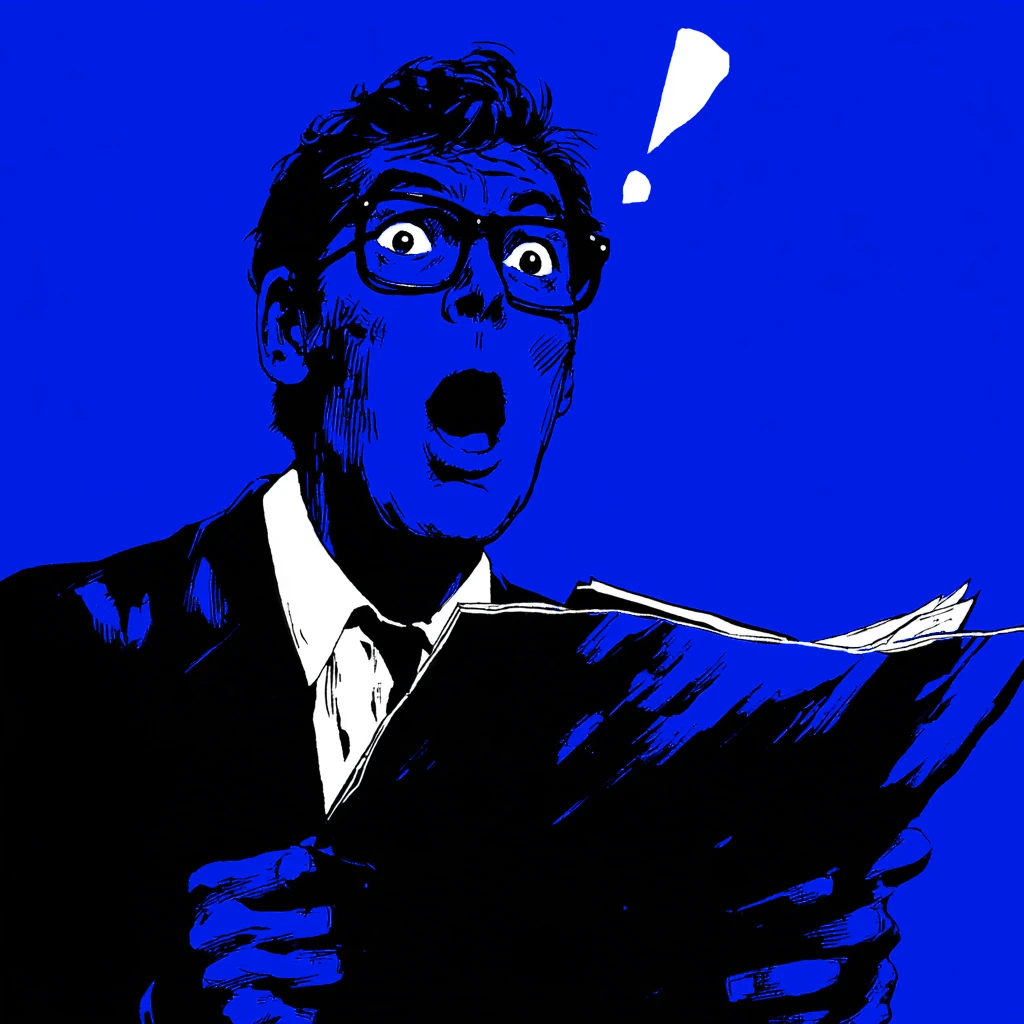
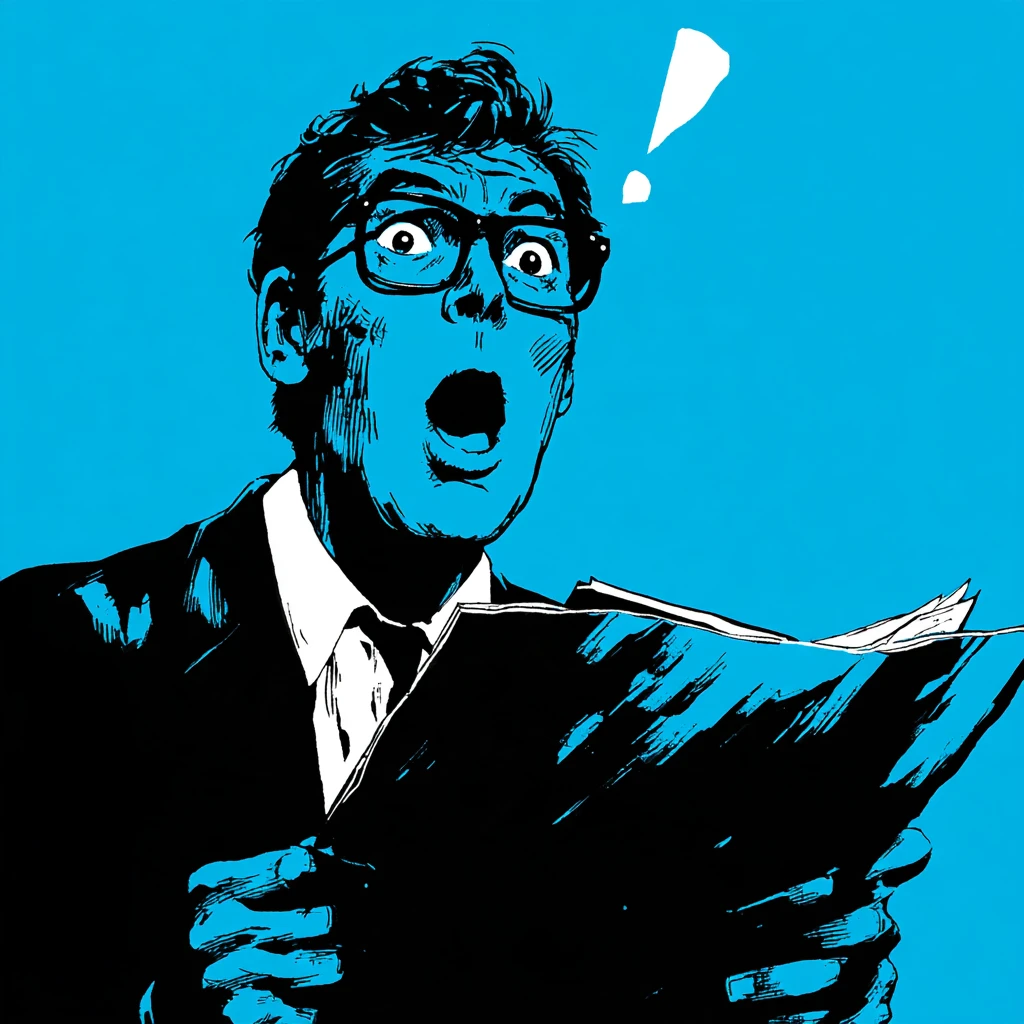
keep the cyan the illustrations came back with; say what a person adds
cyan it is -- it reads lighter against the dotted ground than #1f3cff did, and
the blue versions are kept so the swap is one command either way.

face: the white band is one rectangle again. giving each character its own
background made its height follow the character, so the top edge came out as a
staircase. one background, baseline alignment, letters still grow left to right.

about: the honest answer to "you could do that with AI". we use it, and the
saving is already in the price. what does not come out of a model is what to
cut, how much air to leave, and what any of it means for this particular
company.

diff --git a/style.css b/style.css
@@ -316,23 +316,23 @@ section.dark .sec-sub{ color:var(--dark-sub) }
   font-family:var(--jp); font-weight:900; color:#fff; margin:0 0 22px;
   font-size:clamp(29px,4vw,58px); line-height:1.22; letter-spacing:-.05em;
 }
-/* 答えの帯。左から右へ1字ずつ大きくなり、白い縁も字に連れて厚くなる。
-   ⭐ 縁の厚みは padding を em で取っているので、字が大きくなれば勝手に広がる */
+/* 答えの帯。左から右へ1字ずつ大きくなる。
+   🔴 白地は【帯ぜんぶで1枚】にする。字ごとに背景を持たせると、
+      字の高さがそのまま縁の高さになって、上端がギザギザになる */
 .face .a{
   --fa:clamp(11px,1.1vw,14px);
-  margin:0; padding:0; background:none; align-self:flex-start;
-  display:flex; flex-wrap:wrap; align-items:flex-end;
+  margin:0; align-self:flex-start;
+  background:#fff; color:var(--accent); padding:.6em .8em;
+  display:flex; flex-wrap:wrap; align-items:baseline;
   font-family:var(--jp); font-weight:800; letter-spacing:-.02em;
+  line-height:1.5;
 }
 .face .a span{
-  background:#fff; color:var(--accent);
-  font-size:calc(var(--fa) * (1 + var(--i,0) * 1.15));
-  padding:.44em .03em .4em; line-height:1.1;
+  background:none;
+  font-size:calc(var(--fa) * (1 + var(--i,0) * 0.8));
 }
-.face .a span:first-child{ padding-left:.5em }
-.face .a span:last-child{ padding-right:.5em }
 /* 字に分ける前（JSが動かないとき）も、白地に青で読める形のまま */
-.face .a:not(.split){ display:inline-block; background:#fff; color:var(--accent);
+.face .a:not(.split){ display:inline-block;
   font-size:clamp(13px,1.3vw,17px); line-height:1.75; padding:.5em .85em }
 .face figure{ margin:0; position:relative; min-height:clamp(280px,34vw,440px) }
 .face img{ position:absolute; inset:0; width:100%; height:100%; object-fit:cover; object-position:center 30% }

diff --git a/about.html b/about.html
@@ -145,6 +145,25 @@
     </div>
   </section>
 
+  <!-- ═══ 🔴 AIで作れる時代に、人が作る意味 ═══ -->
+  <section class="dark">
+    <div class="wrap">
+      <h2 class="sec-title">「それ、AIで作れますよね」</h2>
+      <p class="sec-sub" style="max-width:48em">
+        作れます。私も使います。むしろ、使えるものは全部使います。そのぶん安くできています。<br>
+        ただ、出てきたものをそのまま置くと、<b>だいたい同じ顔になります。</b>
+        デザインで時間がかかるのは、足すところではなく<b>削るところ</b>です。
+        どこを空けるか。何を言わないか。どの一行だけを大きくするか。
+        ここは、何百枚も作って、何度も外してきた手でしか決まりません。</p>
+      <ol class="flow">
+        <li><span class="tag">01 / Use</span><b>道具は全部使います</b>否定しません。早くできるぶんは、そのまま値段に返しています。</li>
+        <li><span class="tag">02 / Cut</span><b>難しいのは削るほうです</b>足すのは誰でもできます。何を捨てるかを決めるのに時間がかかります。</li>
+        <li><span class="tag">03 / Space</span><b>余白は出力されません</b>どれだけ空けるかは、その会社と、見る人と、紙か画面かで変わります。毎回ちがいます。</li>
+        <li><span class="tag">04 / Yours</span><b>「おたくの場合」は誰も答えない</b>一般論ではなく、この会社ならどうかを決める。そこだけが私の仕事です。</li>
+      </ol>
+    </div>
+  </section>
+
   <!-- ═══ 🔴 木下スタジオとの違い ═══ -->
   <section class="soft">
     <div class="wrap">
